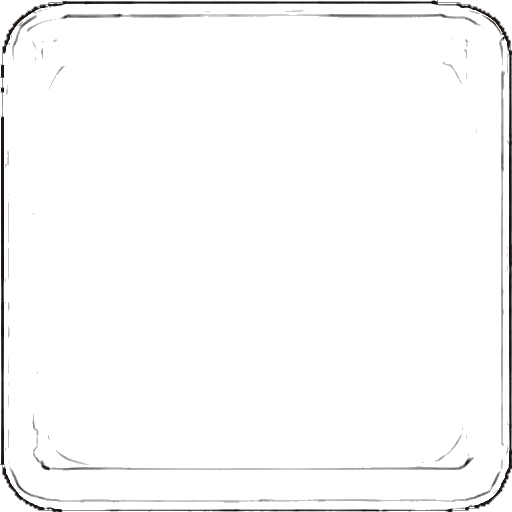
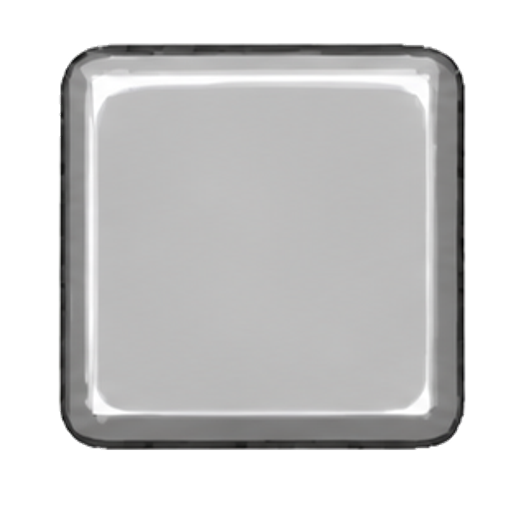
Use clean approved dice face artwork

diff --git a/src/CoreRulesModern/Views/DiceRollerWindow.xaml.cs b/src/CoreRulesModern/Views/DiceRollerWindow.xaml.cs
@@ -586,22 +586,20 @@ public partial class DiceRollerWindow : Window
         var assetName = $"d{die.Sides}";
         var faceUri = new Uri($"pack://application:,,,/CoreRulesLibrary;component/Assets/DiceRoller/DieFace-{assetName}.png", UriKind.Absolute);
         var maskUri = new Uri($"pack://application:,,,/CoreRulesLibrary;component/Assets/DiceRoller/DieFace-{assetName}-Mask.png", UriKind.Absolute);
-        var edgesUri = new Uri($"pack://application:,,,/CoreRulesLibrary;component/Assets/DiceRoller/DieEdges-{assetName}.png", UriKind.Absolute);
         var mask = new ImageBrush(new BitmapImage(maskUri)) { Stretch = Stretch.Uniform };
         var colourLayer = new Border { Width = size, Height = size, Background = BrushFromHex(die.ColourHex), OpacityMask = mask, IsHitTestVisible = false };
         var speckleLayer = new Border { Width = size, Height = size, Background = CreateSpeckleBrush(Colors.Transparent.ToString(), die.SecondaryColourHex), OpacityMask = mask, IsHitTestVisible = false };
         var face = new Image
         {
-            Source = new BitmapImage(faceUri), Width = size, Height = size, Stretch = Stretch.Uniform, Opacity = 1, IsHitTestVisible = false,
+            Source = new BitmapImage(faceUri), Width = size, Height = size, Stretch = Stretch.Uniform, Opacity = 0.48, IsHitTestVisible = false,
             Effect = new DropShadowEffect { Color = die == _selectedDie ? Color.FromRgb(224, 175, 65) : Colors.Black, BlurRadius = die == _selectedDie ? 18 : 11, ShadowDepth = die == _selectedDie ? 0 : 6, Opacity = 0.95 }
         };
-        var edges = new Image { Source = new BitmapImage(edgesUri), Width = size, Height = size, Stretch = Stretch.Uniform, Opacity = 0.92, IsHitTestVisible = false };
         var numeralTop = die.Sides switch { 4 => .37, 8 => .25, 10 => .24, 12 => .30, 20 => .38, 100 => .35, _ => .40 };
         var numeralSize = die.Sides switch { 4 => .35, 6 => .35, 100 => .22, _ => .285 };
         var numeralX = die.Sides == 12 ? size * -.035 : 0;
         var number = new TextBlock { Text = DisplayNumber(die), FontFamily = DiceNumeralFont, FontSize = size * numeralSize, FontWeight = FontWeights.Bold, Foreground = ContrastBrush(die.ColourHex), HorizontalAlignment = HorizontalAlignment.Center, VerticalAlignment = VerticalAlignment.Top, Margin = new Thickness(0, size * numeralTop, 0, 0), RenderTransform = new TranslateTransform(numeralX, 0), Effect = new DropShadowEffect { Color = Colors.White, BlurRadius = 2, ShadowDepth = 0, Opacity = 0.55 }, IsHitTestVisible = false };
         var label = new TextBlock { Text = string.IsNullOrWhiteSpace(die.Label) ? $"d{die.Sides}" : $"d{die.Sides} · {die.Label}", Foreground = Brushes.White, FontSize = Math.Max(11, size * .095), FontWeight = FontWeights.SemiBold, HorizontalAlignment = HorizontalAlignment.Center, VerticalAlignment = VerticalAlignment.Bottom, TextTrimming = TextTrimming.CharacterEllipsis, MaxWidth = size, Effect = new DropShadowEffect { Color = Colors.Black, BlurRadius = 3, ShadowDepth = 1, Opacity = 1 }, IsHitTestVisible = false };
-        grid.Children.Add(colourLayer); grid.Children.Add(speckleLayer); grid.Children.Add(face); grid.Children.Add(edges);
+        grid.Children.Add(colourLayer); grid.Children.Add(speckleLayer); grid.Children.Add(face);
         if (die.Quantity > 1) grid.Children.Add(new TextBlock { Text = $"{die.Quantity}×", FontFamily = DiceNumeralFont, FontSize = size * .19, FontWeight = FontWeights.Bold, Foreground = Brushes.White, HorizontalAlignment = HorizontalAlignment.Left, VerticalAlignment = VerticalAlignment.Top, Margin = new Thickness(2, 4, 0, 0), Effect = new DropShadowEffect { Color = Colors.Black, BlurRadius = 4, ShadowDepth = 2, Opacity = 1 }, IsHitTestVisible = false });
         if (showNumber) grid.Children.Add(number);
         grid.Children.Add(label);
